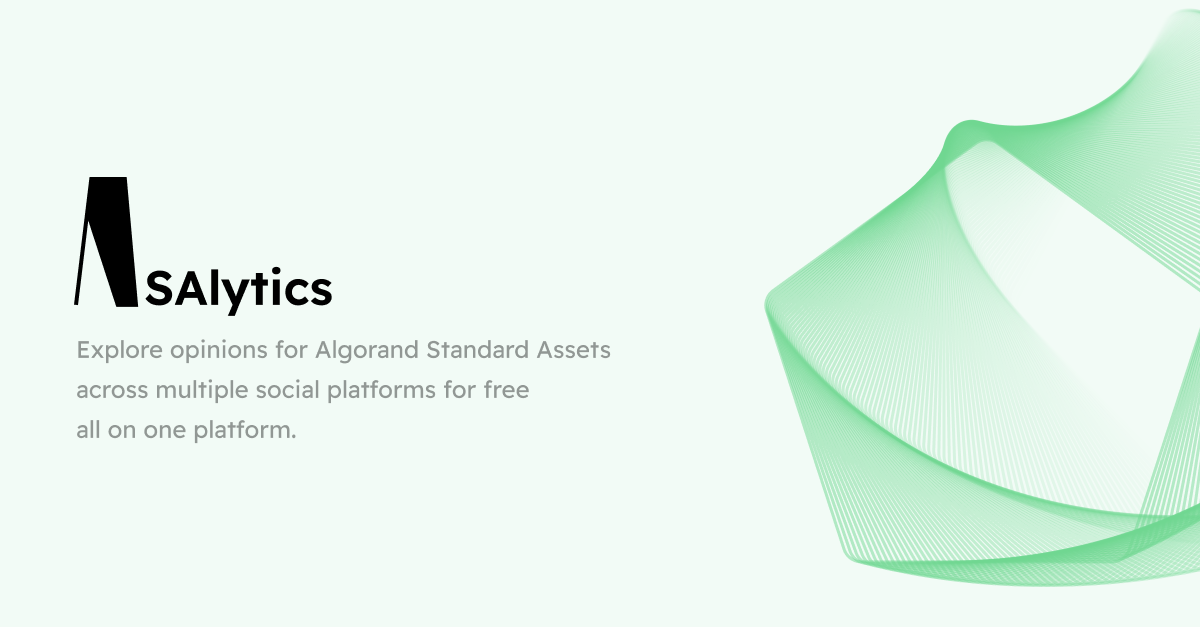
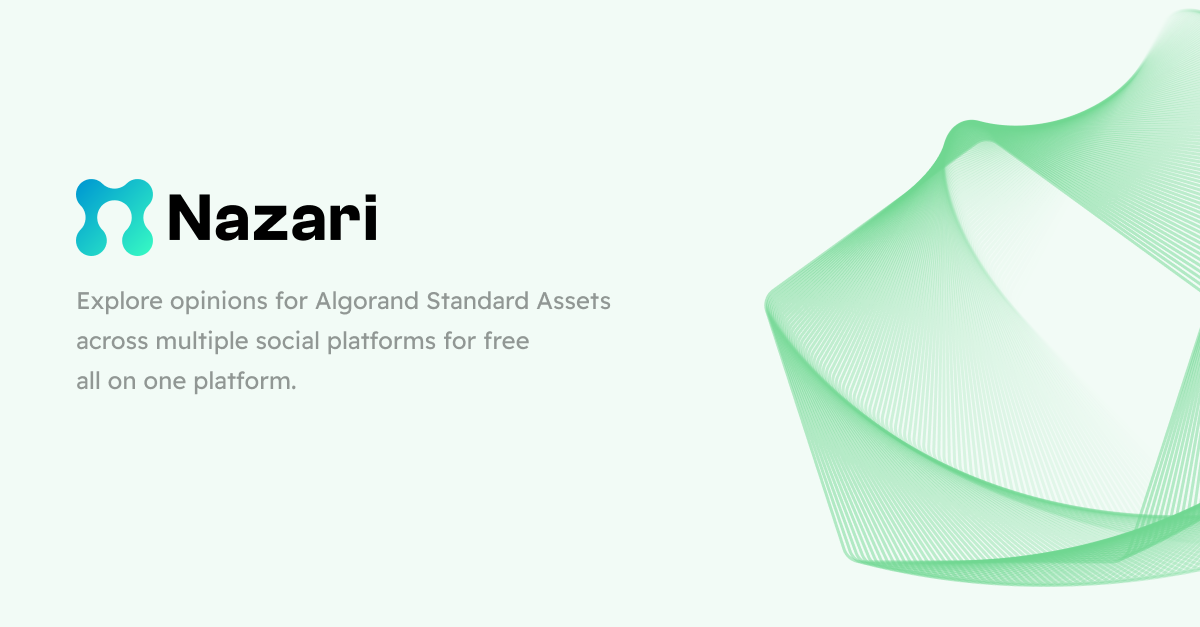
fix: Fix SEO Card Image and Font

Changed region(s): [[0.0617, 0.2727, 0.5242, 0.6364], [0.0617, 0.6667, 0.2467, 0.697]]

diff --git a/styles/globals.scss b/styles/globals.scss
@@ -1,4 +1,4 @@
-@import url("https://fonts.googleapis.com/css2?family=Comfortaa:wght@300;400;500;600;700&display=swap");
+@import url("https://fonts.googleapis.com/css2?family=Averia+Sans+Libre:wght@300;400;700&display=swap");
 @import url("https://fonts.googleapis.com/css2?family=Inter:wght@200;400;600;700&family=Readex+Pro:wght@200;300;400;500;600;700&display=swap");
 
 :root {
@@ -52,7 +52,7 @@ a {
 
 * {
     box-sizing: border-box;
-    font-family: "Comfortaa", "Readex Pro", sans-serif;
+    font-family: "Averia Sans Libre", "Readex Pro", sans-serif;
 }
 
 .recharts-xAxis {

diff --git a/pages/_app.tsx b/pages/_app.tsx
@@ -56,6 +56,10 @@ function MyApp({ Component, pageProps }: AppProps) {
                     <link rel="icon" href="/favicon.ico"></link>
 
                     <title>Nazari</title>
+                    <link
+                        href="https://fonts.googleapis.com/css2?family=Averia+Sans+Libre:wght@300;400;700&display=swap"
+                        rel="stylesheet"
+                    ></link>
 
                     <script
                         src="https://sak.userreport.com/asalytics/launcher.js"
